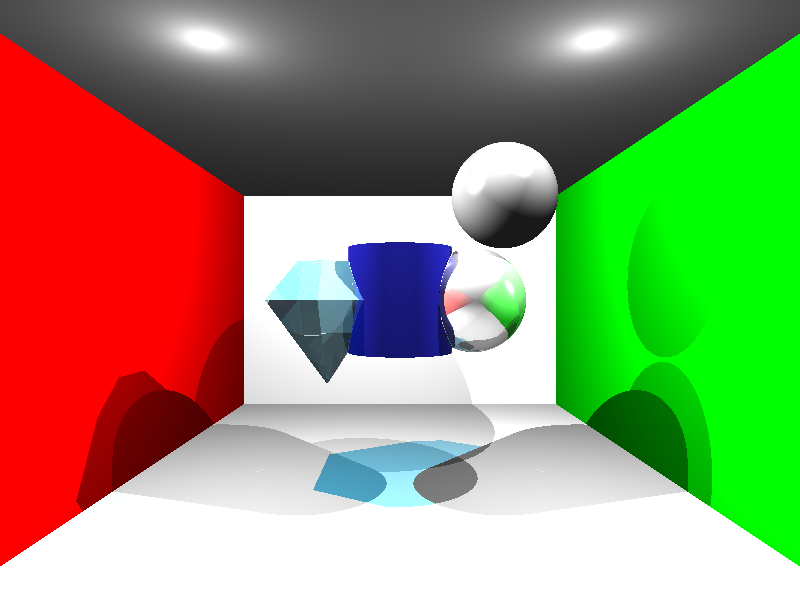
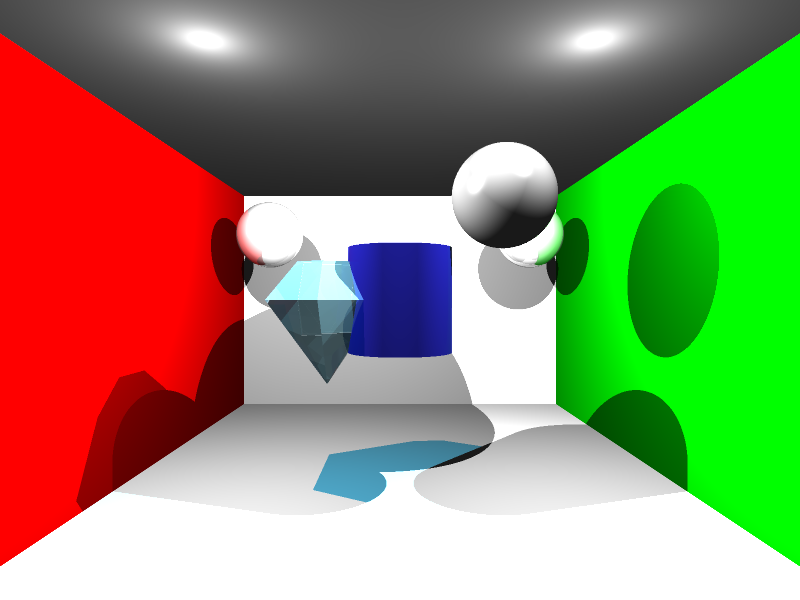
antialising

Changed region(s): [[0.2188, 0.36, 0.75, 0.87], [0.7812, 0.3, 0.9062, 0.84]]

diff --git a/main.cpp b/main.cpp
@@ -73,11 +73,11 @@ public:
     Vec arriba;
     Vec derecha;
     double fov;
-    int ancho;
-    int alto;
+    double ancho;
+    double alto;
     Camara();
     Camara(Vec posicion, Vec objetivo, Vec arriba, double fov, int ancho, int alto);
-    Rayo generarRayo(int x, int y);
+    Rayo generarRayo(double x, double y);
 };
 
 Camara::Camara() {
@@ -100,10 +100,10 @@ Camara::Camara(Vec posicion, Vec objetivo, Vec arriba, double fov, int ancho, in
     this->alto = alto;
 }
 
-Rayo Camara::generarRayo(int x, int y) {
+Rayo Camara::generarRayo(double x, double y) {
     // coordenadas normalizadas [0,1]
-    double u = (x + 0.5) / ancho;
-    double v = (y + 0.5) / alto;
+    double u = x / ancho;
+    double v = y / alto;
     double aspect = (double)ancho / alto;
     // coordenadas viewport [-1,1]
     double px = (2.0 * u - 1.0) * aspect;
@@ -742,6 +742,8 @@ void cargarEscena(Escena& escena)
         mat.specular = Color(sphere->DoubleAttribute("sr"), sphere->DoubleAttribute("sg"), sphere->DoubleAttribute("sb"));
         mat.shininess = sphere->DoubleAttribute("shininess");
         mat.reflectivity = sphere->DoubleAttribute("reflectivity");
+        mat.ior = sphere->DoubleAttribute("ior");
+        mat.transparency = sphere->DoubleAttribute("transparency");
 
         Esfera* e = new Esfera(Vec(x, y, z), radius, mat);
         e->grupo = escena.cantidadObjetos;
@@ -782,6 +784,8 @@ void cargarEscena(Escena& escena)
         mat.specular = Color(plane->DoubleAttribute("sr"), plane->DoubleAttribute("sg"), plane->DoubleAttribute("sb"));
         mat.shininess = plane->DoubleAttribute("shininess");
         mat.reflectivity = plane->DoubleAttribute("reflectivity");
+        mat.ior = plane->DoubleAttribute("ior");
+        mat.transparency = plane->DoubleAttribute("transparency");
 
         Plano* p = new Plano(Vec(px, py, pz), Vec(nx, ny, nz), mat);
         p->grupo = escena.cantidadObjetos;
@@ -800,10 +804,10 @@ void cargarEscena(Escena& escena)
 
         mat.diffuse = Color(diamond->DoubleAttribute("dr", 0.55), diamond->DoubleAttribute("dg", 0.90), diamond->DoubleAttribute("db", 1.00));
         mat.specular = Color(diamond->DoubleAttribute("sr", 1.0), diamond->DoubleAttribute("sg", 1.0), diamond->DoubleAttribute("sb", 1.0));
-        mat.shininess = diamond->DoubleAttribute("shininess", 256.0);
-        mat.reflectivity = diamond->DoubleAttribute("reflectivity", 0.2);
-        mat.transparency = diamond->DoubleAttribute("transparency", 0.85);
-        mat.ior = diamond->DoubleAttribute("ior", 2.417);
+        mat.shininess = diamond->DoubleAttribute("shininess");
+        mat.reflectivity = diamond->DoubleAttribute("reflectivity");
+        mat.transparency = diamond->DoubleAttribute("transparency");
+        mat.ior = diamond->DoubleAttribute("ior");
         mat.ambient = mat.diffuse * 0.1;
 
         agregarDiamante(escena, Vec(x, y, z), escala, mat);
@@ -822,8 +826,8 @@ void cargarEscena(Escena& escena)
         mat.specular = Color(cylinder->DoubleAttribute("sr"), cylinder->DoubleAttribute("sg"), cylinder->DoubleAttribute("sb"));
         mat.shininess = cylinder->DoubleAttribute("shininess");
         mat.reflectivity = cylinder->DoubleAttribute("reflectivity");
-        mat.transparency = cylinder->DoubleAttribute("transparency", 0.0);
-        mat.ior = cylinder->DoubleAttribute("ior", 1.0);
+        mat.transparency = cylinder->DoubleAttribute("transparency");
+        mat.ior = cylinder->DoubleAttribute("ior");
 
         Cilindro* c = new Cilindro(Vec(x,y,z), radius, height, mat);
         c->grupo = escena.cantidadObjetos;
@@ -1032,10 +1036,15 @@ void renderizar(Escena& escena, Framebuffer& fb)
 {
     for (int y = 0; y < fb.height; y++){
         for (int x = 0; x < fb.width; x++){
-            Rayo r = escena.cam.generarRayo(x, y);
-
-            Color c = traceRay(escena, r, 0);
-
+            Color acumulado(0,0,0);
+            double offsets[2] = {0.25, 0.75};
+            for(int sy = 0; sy < 2; sy++){
+                for(int sx = 0; sx < 2; sx++){
+                    Rayo r = escena.cam.generarRayo(x + offsets[sx], y + offsets[sy]);
+                    acumulado = acumulado + traceRay(escena, r, 0);
+                }
+            }
+            Color c = acumulado * 0.25;
             fb.setPixel(x, y, c);
         }
     }
